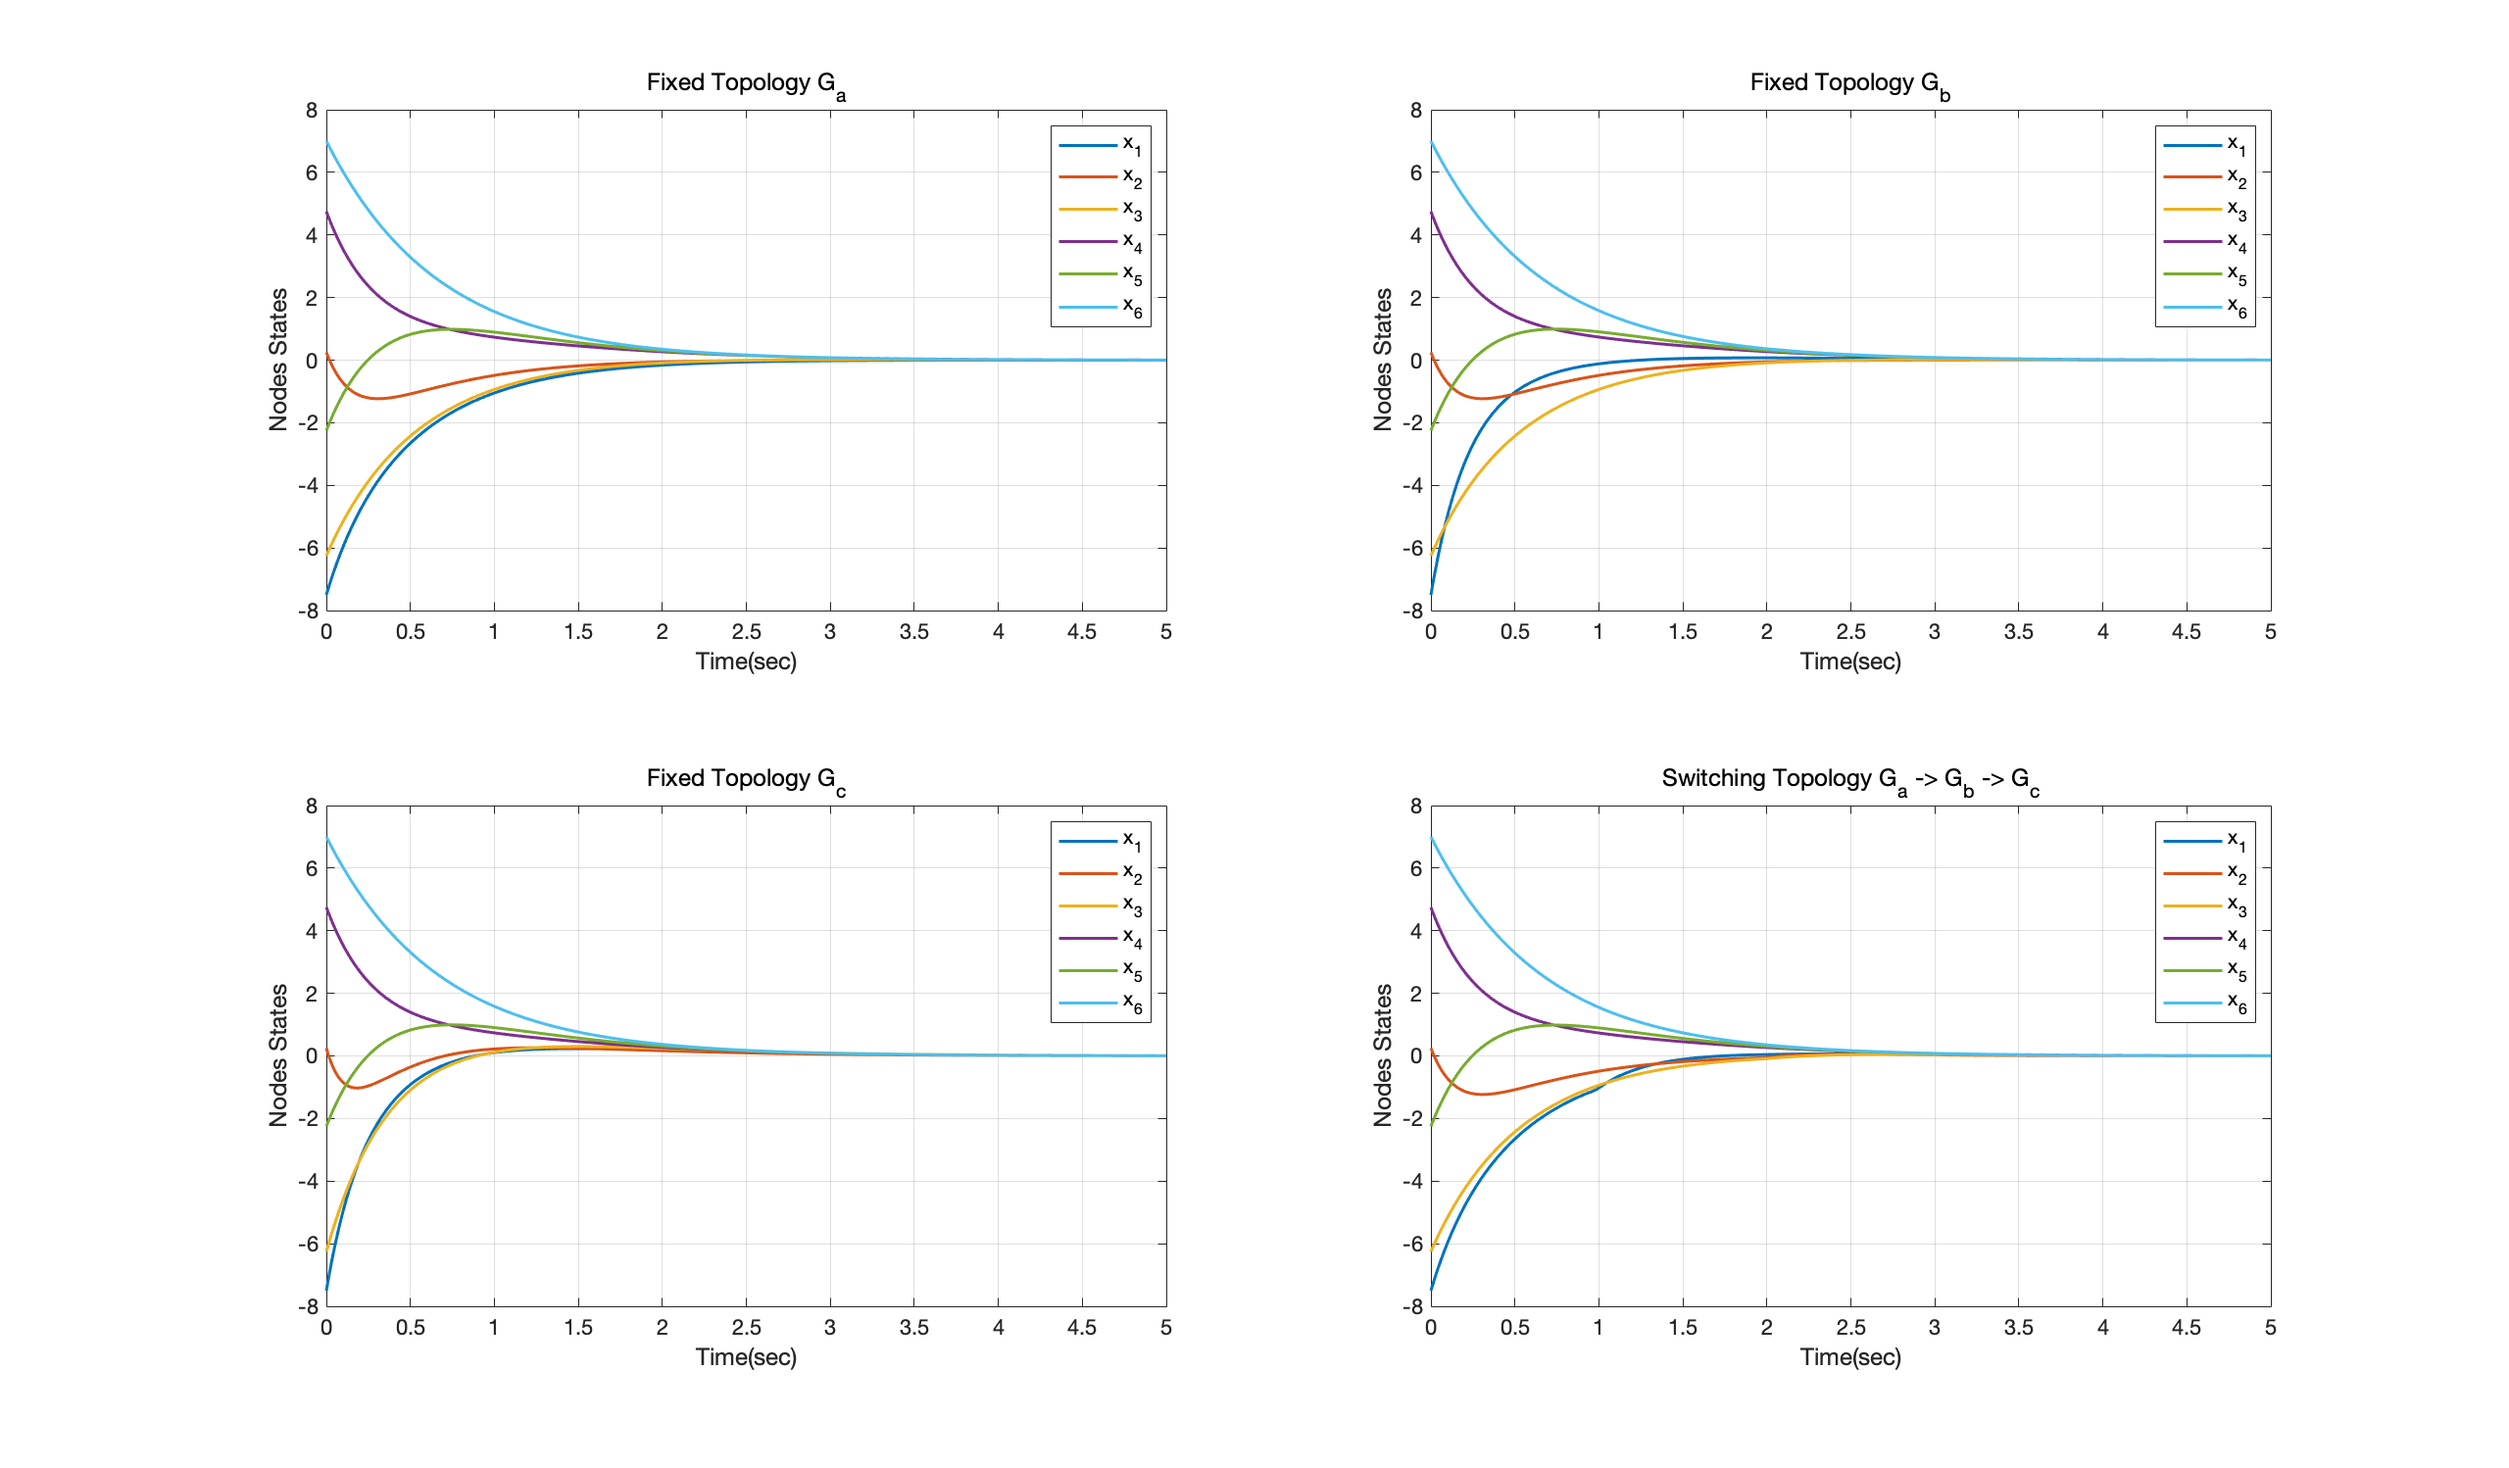
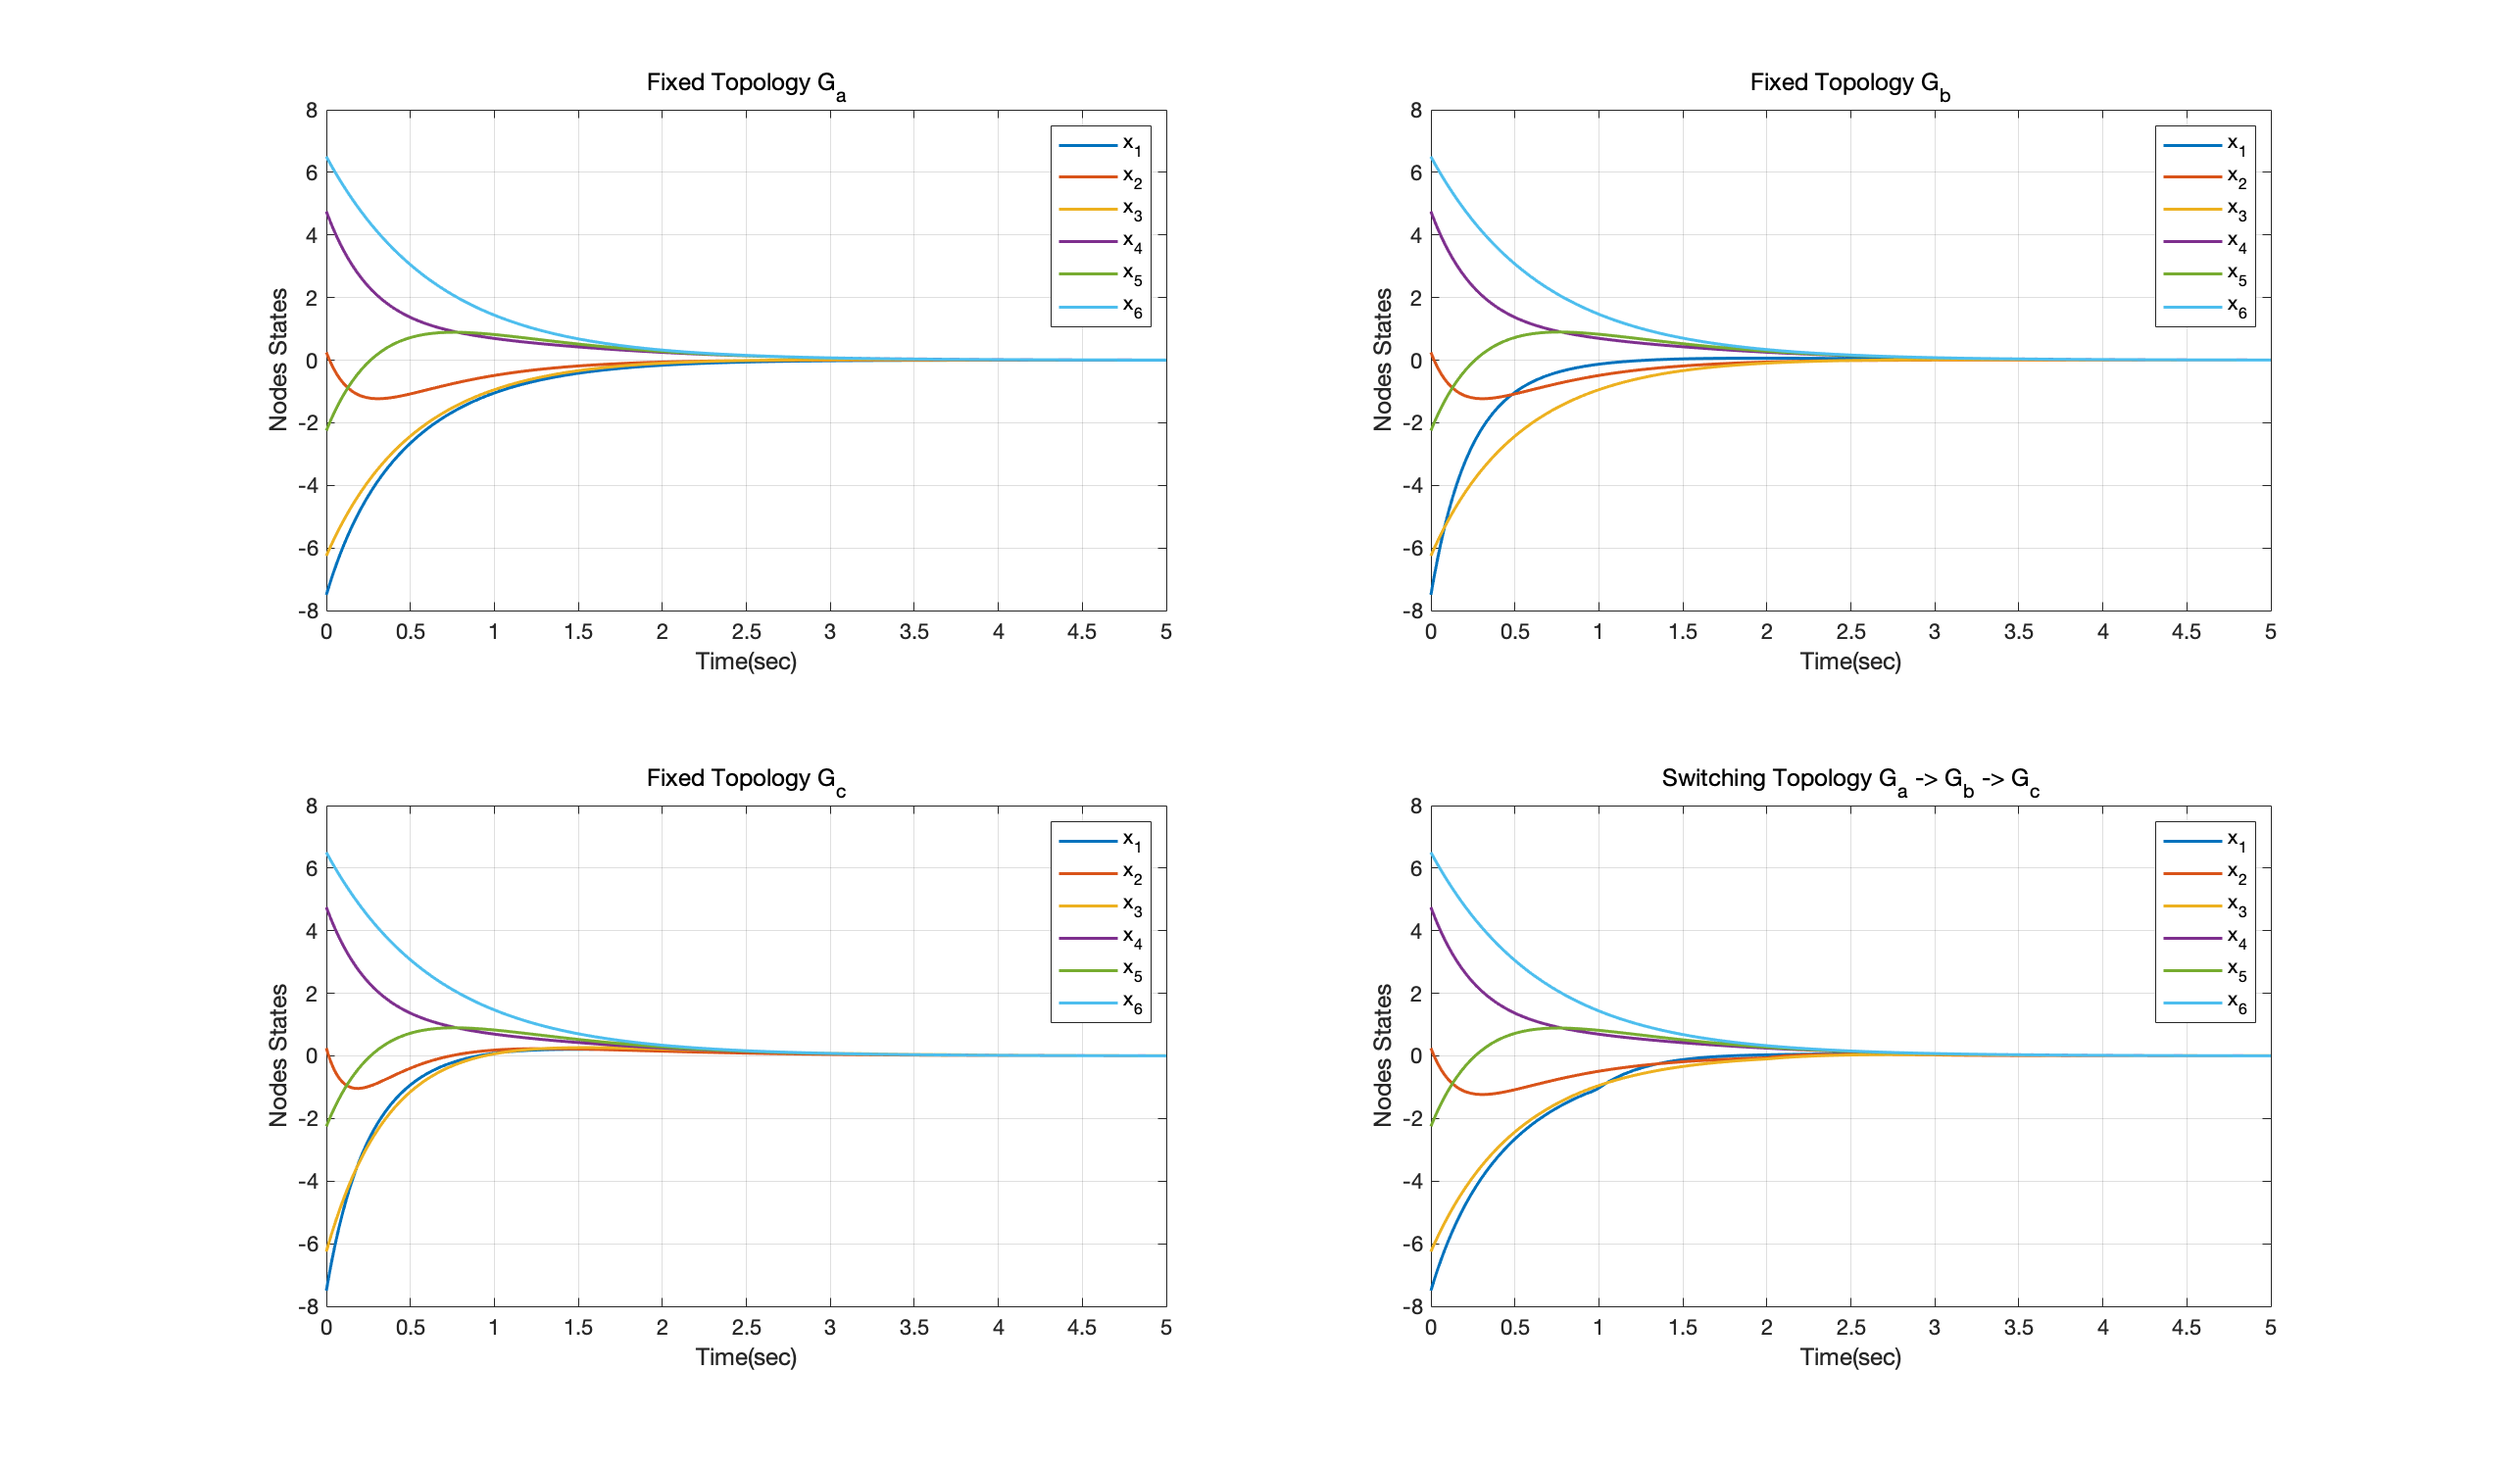
Update Initial Value Ave=0

diff --git a/CT2Node6UandNoU.m b/CT2Node6UandNoU.m
@@ -5,7 +5,7 @@ clc
 t0 = 0; tt = 20;
 y0 = 0; yt = 6;
 
-X0 = [-7.50, 0.25, -6.25, 4.75, -2.25, 7.00];
+X0 = [-7.50, 0.25, -6.25, 4.75, -2.25, 6.50];
 
 
 [t, Xt] = ode45(@SunFun, [t0 tt], X0);
